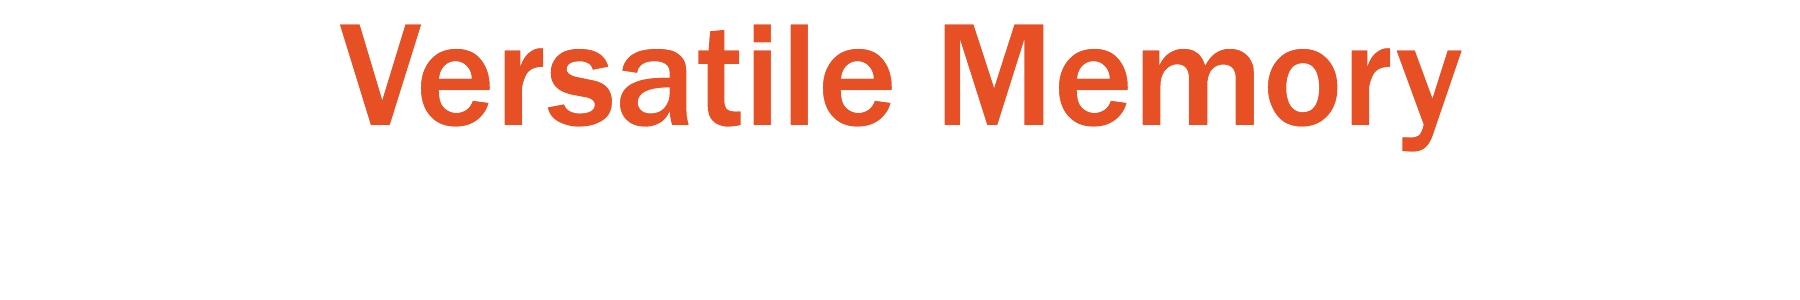
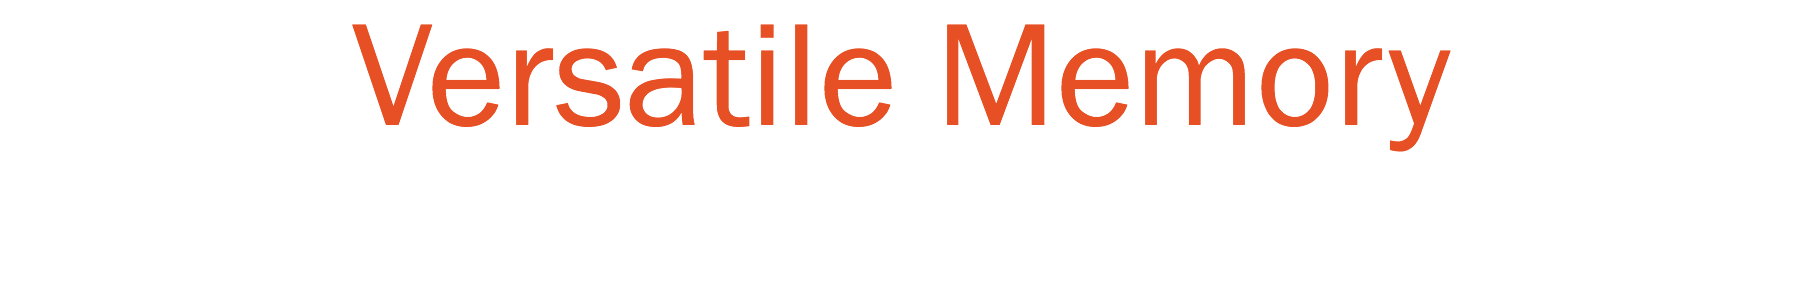
summ

Changed region(s): [[0.1867, 0.06, 0.4978, 0.42], [0.5289, 0.09, 0.8089, 0.51]]

diff --git a/index.html b/index.html
@@ -16,7 +16,7 @@ body {
   <p><img src="Logo_on gray.png" width="709" height="178" alt=""/></p>
 </div>
 <div>
-  <p style="color: #E75024; text-align: center; font-weight: normal; font-size: 36px; font-family: 'Franklin Gothic Book', 'Franklin Gothic Medium';"><img src="versatile mem.png" width="540" height="90" alt=""/></p>
+  <p style="color: #E75024; text-align: center; font-weight: normal; font-size: 36px; font-family: 'Franklin Gothic Book', 'Franklin Gothic Medium';"><img src="versatile mem.png" width="450" height="75" alt=""/></p>
 </div>
 <p>&nbsp;</p>
 <div align=center>
